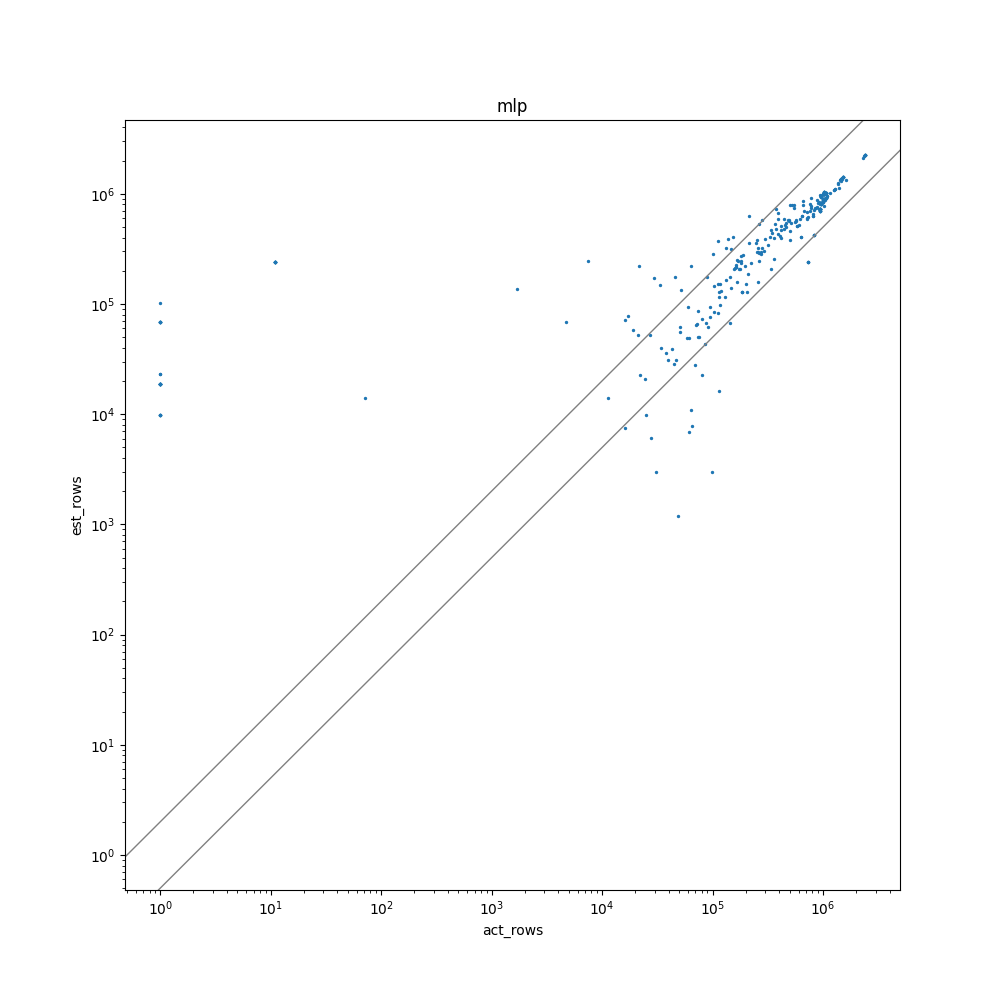
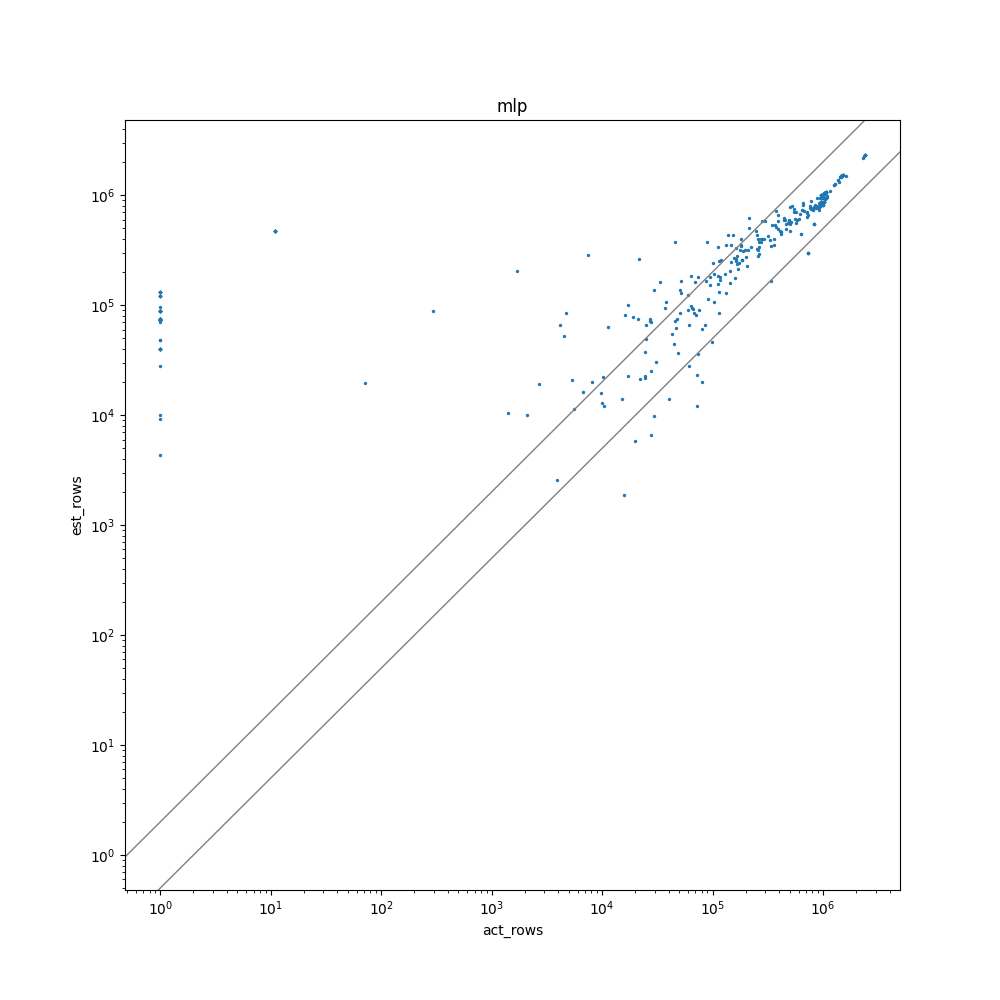
add tidb

diff --git a/lab1/eval/report.md b/lab1/eval/report.md
@@ -6,7 +6,7 @@
 | spn_sample_1000 | 2.32 | 1797.80 | 790486.86 | 811588.15 |
 | spn_sample_10000 | 1.74 | 4.25 | 824035.87 | 847240.03 |
 | spn_sample_20000 | 1.77 | 4.01 | 817248.32 | 840200.46 |
-| mlp | 1.13 | 1.52 | 8.39 | 68228.50 |
+| mlp | 1.18 | 4.86 | 73804.90 | 133016.59 |
 | xgb | 1.03 | 1.48 | 39.42 | 901.94 |
 
 ![avi](avi.png)
